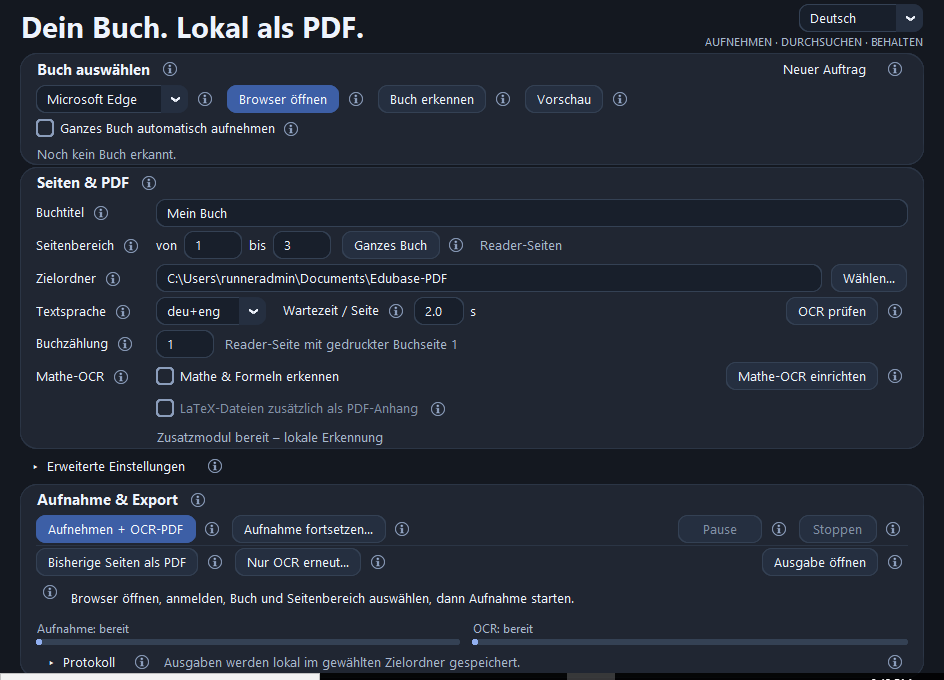
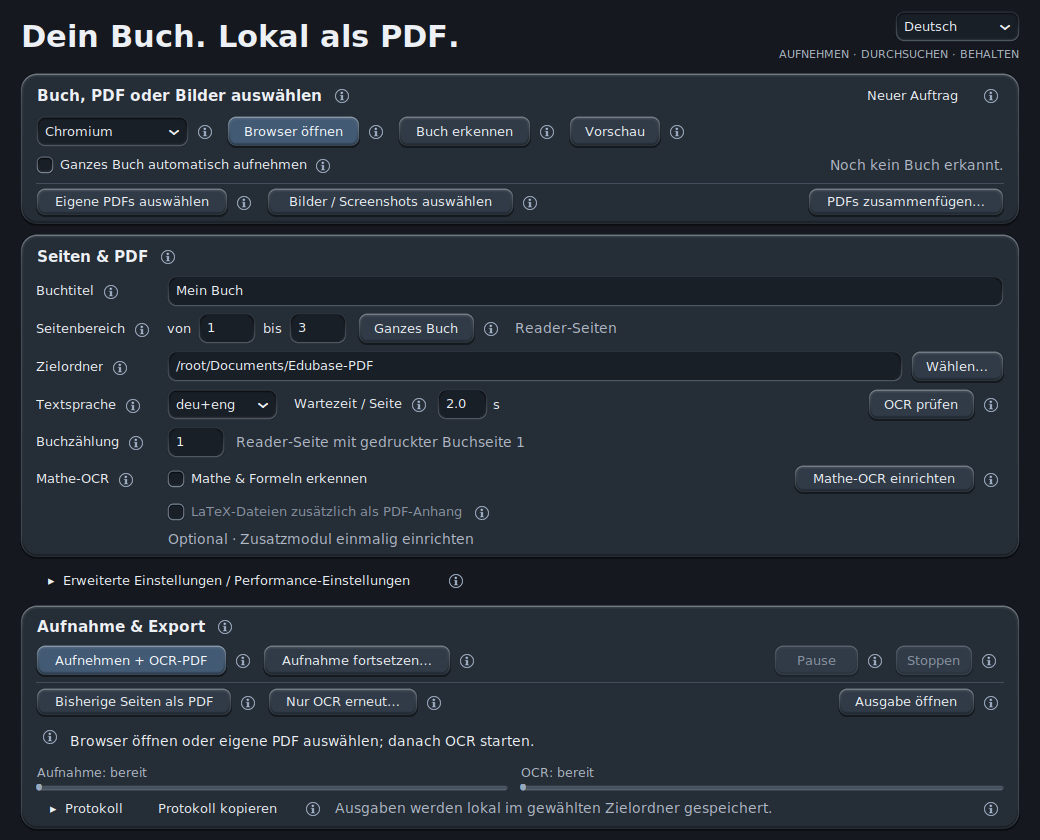
Document v1.8.0 graphite interface and refresh app previews

diff --git a/site/index.html b/site/index.html
@@ -17,7 +17,7 @@
   <meta property="og:url" content="https://sebii1998.github.io/edubase-to-pdf-ocr/">
   <meta property="og:locale" content="de_CH">
   <meta property="og:image" content="https://sebii1998.github.io/edubase-to-pdf-ocr/assets/app-de.png">
-  <meta property="og:image:alt" content="Deutsche Oberfläche von Edubase to PDF + OCR mit Buchauswahl, Seiteneinstellungen und PDF-Export">
+  <meta property="og:image:alt" content="Graphit-Oberfläche von Edubase to PDF + OCR – deutsche Beispielansicht">
   <meta name="twitter:card" content="summary_large_image">
   <link rel="icon" href="./assets/favicon.svg" type="image/svg+xml">
   <link rel="stylesheet" href="./assets/site.css">
@@ -42,14 +42,15 @@
         <h1 id="hero-title">Dein Buch.<br><span>Lokal als PDF.</span></h1>
         <p class="intro">Edubase-Buchseiten aufnehmen, mehrere eigene PDFs durchsuchbar machen oder Bilder und Screenshots in eine PDF verwandeln. Mit Text-OCR und optionaler Mathe-Erkennung – lokal auf deinem PC.</p>
         <div class="actions"><a class="button" href="https://github.com/Sebii1998/edubase-to-pdf-ocr/releases/download/v1.8.0/Edubase-PDF-Windows.zip"><svg width="19" height="19" viewBox="0 0 24 24" fill="none" stroke="currentColor" stroke-width="1.7" stroke-linecap="round" stroke-linejoin="round" aria-hidden="true"><path d="M12 3v12m-5-5 5 5 5-5M4 16v5h16v-5"/></svg>Für Windows herunterladen</a><a class="button secondary" href="#start">So geht’s</a></div>
-        <p class="download-note">Kostenlos · ZIP, ca. 241,7 MB · Windows 64 Bit (Intel/AMD)</p>
+        <p class="download-note">Kostenlos · ZIP, ca. 241,8 MB · Windows 64 Bit (Intel/AMD)</p>
       </div>
       <figure class="preview">
-        <div class="preview-window"><div class="window-bar" aria-hidden="true"><span></span><span></span><span></span><small>Edubase to PDF + OCR</small></div><a href="./assets/app-de.png" aria-label="Bild vergrössern"><img src="./assets/app-de.png" alt="Deutsche Oberfläche von Edubase to PDF + OCR mit Buchauswahl, Seiteneinstellungen und PDF-Export" width="944" height="680" fetchpriority="high" decoding="async"></a></div>
-        <figcaption><span>App-Oberfläche · Beispielansicht</span><a href="./assets/app-de.png">Bild vergrössern ↗</a></figcaption>
+        <div class="preview-window"><div class="window-bar" aria-hidden="true"><span></span><span></span><span></span><small>Edubase to PDF + OCR</small></div><a href="./assets/app-de.png" aria-label="Bild vergrössern"><img src="./assets/app-de.png" alt="Graphit-Oberfläche von Edubase to PDF + OCR – deutsche Beispielansicht" width="1040" height="840" fetchpriority="high" decoding="async"></a></div>
+        <figcaption><span>Graphit-Oberfläche · Beispielansicht</span><a href="./assets/app-de.png">Bild vergrössern ↗</a></figcaption>
       </figure>
     </section>
     <div class="compatibility"><span><svg width="16" height="16" viewBox="0 0 24 24" fill="none" stroke="currentColor" stroke-width="1.7" stroke-linecap="round" stroke-linejoin="round" aria-hidden="true"><path d="m5 12 4 4L19 6"/></svg>Python & OCR enthalten</span><span><svg width="16" height="16" viewBox="0 0 24 24" fill="none" stroke="currentColor" stroke-width="1.7" stroke-linecap="round" stroke-linejoin="round" aria-hidden="true"><path d="m5 12 4 4L19 6"/></svg>Edge, Chrome & Firefox</span><span><svg width="16" height="16" viewBox="0 0 24 24" fill="none" stroke="currentColor" stroke-width="1.7" stroke-linecap="round" stroke-linejoin="round" aria-hidden="true"><path d="m5 12 4 4L19 6"/></svg>Deutsch & English</span></div>
+    <div class="hint"><p><strong>Neu in 1.8.0: Graphit-Oberfläche.</strong> Dunkle Flächen, dezente Schatten und eine klar gegliederte Auswahl für Buch, PDFs und Bilder. Der neue Stil gilt auch für die erweiterten Einstellungen und die englische Ansicht.</p></div>
     <section class="section" aria-labelledby="features-title">
       <div class="section-heading"><p class="eyebrow">Für deinen Lernalltag</p><h2 id="features-title">Aufnehmen. Durchsuchen. Behalten.</h2><p>Buchseiten aufnehmen, PDFs und Bilder um Suchtext ergänzen und Unterlagen zusammenfügen. Die sichtbaren Seiten bleiben erhalten.</p></div>
       <div class="features"><article class="feature"><div class="icon"><svg width="23" height="23" viewBox="0 0 24 24" fill="none" stroke="currentColor" stroke-width="1.7" stroke-linecap="round" stroke-linejoin="round" aria-hidden="true"><circle cx="10.5" cy="10.5" r="6.5"/><path d="m16 16 5 5"/></svg></div><h3>Text schnell finden</h3><p>Suche in deinem PDF nach Begriffen und markiere erkannten Text. Ideal zum Nachschlagen und Lernen.</p></article><article class="feature"><div class="icon"><svg width="23" height="23" viewBox="0 0 24 24" fill="none" stroke="currentColor" stroke-width="1.7" stroke-linecap="round" stroke-linejoin="round" aria-hidden="true"><path d="M4 7h6m4 0h6M4 17h10m4 0h2M10 4v6m4 4v6"/></svg></div><h3>PDFs zusammenfügen</h3><p>Mehrere PDFs auswählen, die Reihenfolge festlegen und als neue Datei speichern. Vorhandener Suchtext bleibt erhalten. <a href="#merge-pdf">So funktioniert’s.</a></p></article><article class="feature"><div class="icon"><svg width="23" height="23" viewBox="0 0 24 24" fill="none" stroke="currentColor" stroke-width="1.7" stroke-linecap="round" stroke-linejoin="round" aria-hidden="true"><rect x="5" y="10" width="14" height="11" rx="2"/><path d="M8 10V7a4 4 0 0 1 8 0v3m-4 4v3"/></svg></div><h3>Verarbeitung auf deinem PC</h3><p>Aufnahme und Texterkennung laufen lokal. Für eigene PDFs und Bilder brauchst du keinen Browser und keine Edubase-Anmeldung. Deine Originaldateien bleiben unverändert.</p></article></div>

diff --git a/site/en/index.html b/site/en/index.html
@@ -17,7 +17,7 @@
   <meta property="og:url" content="https://sebii1998.github.io/edubase-to-pdf-ocr/en/">
   <meta property="og:locale" content="en_GB">
   <meta property="og:image" content="https://sebii1998.github.io/edubase-to-pdf-ocr/assets/app-en.png">
-  <meta property="og:image:alt" content="English interface of Edubase to PDF + OCR showing book selection, page settings and PDF export">
+  <meta property="og:image:alt" content="Graphite interface of Edubase to PDF + OCR – English example view">
   <meta name="twitter:card" content="summary_large_image">
   <link rel="icon" href="../assets/favicon.svg" type="image/svg+xml">
   <link rel="stylesheet" href="../assets/site.css">
@@ -42,14 +42,15 @@
         <h1 id="hero-title">Your book.<br><span>A local PDF.</span></h1>
         <p class="intro">Capture Edubase book pages, make several PDFs searchable or turn images and screenshots into a PDF. With text OCR and optional maths recognition – locally on your PC.</p>
         <div class="actions"><a class="button" href="https://github.com/Sebii1998/edubase-to-pdf-ocr/releases/download/v1.8.0/Edubase-PDF-Windows.zip"><svg width="19" height="19" viewBox="0 0 24 24" fill="none" stroke="currentColor" stroke-width="1.7" stroke-linecap="round" stroke-linejoin="round" aria-hidden="true"><path d="M12 3v12m-5-5 5 5 5-5M4 16v5h16v-5"/></svg>Download for Windows</a><a class="button secondary" href="#start">How it works</a></div>
-        <p class="download-note">Free · ZIP, approx. 241.7 MB · Windows 64-bit (Intel/AMD)</p>
+        <p class="download-note">Free · ZIP, approx. 241.8 MB · Windows 64-bit (Intel/AMD)</p>
       </div>
       <figure class="preview">
-        <div class="preview-window"><div class="window-bar" aria-hidden="true"><span></span><span></span><span></span><small>Edubase to PDF + OCR</small></div><a href="../assets/app-en.png" aria-label="View full image"><img src="../assets/app-en.png" alt="English interface of Edubase to PDF + OCR showing book selection, page settings and PDF export" width="944" height="680" fetchpriority="high" decoding="async"></a></div>
-        <figcaption><span>App interface · example view</span><a href="../assets/app-en.png">View full image ↗</a></figcaption>
+        <div class="preview-window"><div class="window-bar" aria-hidden="true"><span></span><span></span><span></span><small>Edubase to PDF + OCR</small></div><a href="../assets/app-en.png" aria-label="View full image"><img src="../assets/app-en.png" alt="Graphite interface of Edubase to PDF + OCR – English example view" width="1040" height="840" fetchpriority="high" decoding="async"></a></div>
+        <figcaption><span>Graphite interface · example view</span><a href="../assets/app-en.png">View full image ↗</a></figcaption>
       </figure>
     </section>
     <div class="compatibility"><span><svg width="16" height="16" viewBox="0 0 24 24" fill="none" stroke="currentColor" stroke-width="1.7" stroke-linecap="round" stroke-linejoin="round" aria-hidden="true"><path d="m5 12 4 4L19 6"/></svg>Python & OCR included</span><span><svg width="16" height="16" viewBox="0 0 24 24" fill="none" stroke="currentColor" stroke-width="1.7" stroke-linecap="round" stroke-linejoin="round" aria-hidden="true"><path d="m5 12 4 4L19 6"/></svg>Edge, Chrome & Firefox</span><span><svg width="16" height="16" viewBox="0 0 24 24" fill="none" stroke="currentColor" stroke-width="1.7" stroke-linecap="round" stroke-linejoin="round" aria-hidden="true"><path d="m5 12 4 4L19 6"/></svg>German & English</span></div>
+    <div class="hint"><p><strong>New in 1.8.0: Graphite interface.</strong> Dark surfaces, subtle shadows and a clearer layout for choosing a book, PDFs or images. The new style also covers advanced settings and the English view.</p></div>
     <section class="section" aria-labelledby="features-title">
       <div class="section-heading"><p class="eyebrow">Made for your study sessions</p><h2 id="features-title">Capture. Search. Keep.</h2><p>Capture book pages, add searchable text to PDFs and images and combine documents. The visible pages are preserved.</p></div>
       <div class="features"><article class="feature"><div class="icon"><svg width="23" height="23" viewBox="0 0 24 24" fill="none" stroke="currentColor" stroke-width="1.7" stroke-linecap="round" stroke-linejoin="round" aria-hidden="true"><circle cx="10.5" cy="10.5" r="6.5"/><path d="m16 16 5 5"/></svg></div><h3>Find the text you need</h3><p>Search your PDF for terms and select recognised text. Handy for looking things up and studying.</p></article><article class="feature"><div class="icon"><svg width="23" height="23" viewBox="0 0 24 24" fill="none" stroke="currentColor" stroke-width="1.7" stroke-linecap="round" stroke-linejoin="round" aria-hidden="true"><path d="M4 7h6m4 0h6M4 17h10m4 0h2M10 4v6m4 4v6"/></svg></div><h3>Merge PDFs</h3><p>Select several PDFs, set their order and save a new file. Existing searchable text is preserved. <a href="#merge-pdf">See how it works.</a></p></article><article class="feature"><div class="icon"><svg width="23" height="23" viewBox="0 0 24 24" fill="none" stroke="currentColor" stroke-width="1.7" stroke-linecap="round" stroke-linejoin="round" aria-hidden="true"><rect x="5" y="10" width="14" height="11" rx="2"/><path d="M8 10V7a4 4 0 0 1 8 0v3m-4 4v3"/></svg></div><h3>Processed on your PC</h3><p>Capture and text recognition run locally. Your own PDFs and images need no browser or Edubase sign-in. Your original files stay unchanged.</p></article></div>

diff --git a/README.md b/README.md
@@ -35,6 +35,7 @@ Automatische Titelerkennung, einstellbare Buchseitennummerierung und optionale M
 
 **Neu in 1.8.0 – Finale Version**
 
+- **Neue Graphit-Oberfläche:** Dunkle Flächen mit dezenten Schatten und klarer gegliederter Auswahl für Buch, PDFs und Bilder. Der Stil zieht sich durch die gesamte App – auch durch die erweiterten Einstellungen und die englische Ansicht.
 - **Mehrere eigene PDFs mit OCR verarbeiten:** Wähle eine oder mehrere PDFs, lege ihre Reihenfolge fest und erhalte eine gemeinsame durchsuchbare PDF.
 - **Bilder und Screenshots als PDF:** Wähle ein oder mehrere gespeicherte Bilder im Format PNG, JPEG, BMP, TIFF oder WebP. Sortiere deine Auswahl, ergänze weitere Bilder oder entferne Einträge und erstelle daraus eine durchsuchbare PDF.
 - **Text und Formeln erkennen:** Text-OCR ist bei beiden Eingaben dabei; Mathe-OCR schaltest du bei Bedarf zu. Die App wechselt automatisch in den lokalen PDF-Modus – ohne Browser, mit unveränderten Originaldateien.
@@ -49,7 +50,7 @@ Die bewährte Edubase-Aufnahme bleibt vollständig erhalten.
   <a href="https://github.com/Sebii1998/edubase-to-pdf-ocr/releases/download/v1.8.0/Edubase-PDF-Windows.zip"><img src="docs/images/download-de.svg" alt="Windows-App herunterladen" width="340"></a>
 </p>
 
-[ZIP · ca. 241,7 MB](https://github.com/Sebii1998/edubase-to-pdf-ocr/releases/download/v1.8.0/Edubase-PDF-Windows.zip) · [Alle Downloads](https://github.com/Sebii1998/edubase-to-pdf-ocr/releases/tag/v1.8.0)
+[ZIP · ca. 241,8 MB](https://github.com/Sebii1998/edubase-to-pdf-ocr/releases/download/v1.8.0/Edubase-PDF-Windows.zip) · [Alle Downloads](https://github.com/Sebii1998/edubase-to-pdf-ocr/releases/tag/v1.8.0)
 
 **Windows 64 Bit (Intel/AMD).** Python, Texterkennung und Firefox sind enthalten.
 Installiertes Edge oder Chrome werden ebenfalls unterstützt.
@@ -67,7 +68,7 @@ Installiertes Edge oder Chrome werden ebenfalls unterstützt.
 <summary><strong>App-Oberfläche ansehen</strong></summary>
 
 <p align="center">
-  <a href="site/assets/app-de.png"><img src="site/assets/app-de.png" alt="Edubase to PDF + OCR – deutsche Oberfläche mit Seitenauswahl und PDF-Export" width="820"></a>
+  <a href="site/assets/app-de.png"><img src="site/assets/app-de.png" alt="Edubase to PDF + OCR – Graphit-Oberfläche, deutsche Beispielansicht" width="820"></a>
 </p>
 
 </details>
@@ -200,6 +201,7 @@ Automatic title detection, configurable PDF page labels and optional maths recog
 
 **New in 1.8.0 – Final release**
 
+- **New graphite interface:** Dark surfaces with subtle shadows and a clearer layout for choosing a book, PDFs or images. The same style extends throughout the app, including advanced settings and the English view.
 - **Process several PDFs with OCR:** Select one or more PDFs, set their order and create one searchable PDF.
 - **Turn images and screenshots into a PDF:** Select one or more saved PNG, JPEG, BMP, TIFF or WebP images. Reorder your selection, add more images or remove entries, then create a searchable PDF.
 - **Recognise text and formulas:** Text OCR runs for both input types; add maths OCR when needed. The app switches to local PDF mode automatically – no browser required, with your originals unchanged.
@@ -214,7 +216,7 @@ Edubase capture remains fully available.
   <a href="https://github.com/Sebii1998/edubase-to-pdf-ocr/releases/download/v1.8.0/Edubase-PDF-Windows.zip"><img src="docs/images/download-en.svg" alt="Download the Windows app" width="340"></a>
 </p>
 
-[ZIP · about 241.7 MB](https://github.com/Sebii1998/edubase-to-pdf-ocr/releases/download/v1.8.0/Edubase-PDF-Windows.zip) · [All downloads](https://github.com/Sebii1998/edubase-to-pdf-ocr/releases/tag/v1.8.0)
+[ZIP · about 241.8 MB](https://github.com/Sebii1998/edubase-to-pdf-ocr/releases/download/v1.8.0/Edubase-PDF-Windows.zip) · [All downloads](https://github.com/Sebii1998/edubase-to-pdf-ocr/releases/tag/v1.8.0)
 
 **64-bit Windows (Intel/AMD).** Python, text recognition and Firefox are included.
 Installed Edge and Chrome are also supported.
@@ -232,7 +234,7 @@ Installed Edge and Chrome are also supported.
 <summary><strong>View the app interface</strong></summary>
 
 <p align="center">
-  <a href="site/assets/app-en.png"><img src="site/assets/app-en.png" alt="Edubase to PDF + OCR – English interface with page selection and PDF export" width="820"></a>
+  <a href="site/assets/app-en.png"><img src="site/assets/app-en.png" alt="Edubase to PDF + OCR – graphite interface, English example view" width="820"></a>
 </p>
 
 </details>

diff --git a/RELEASE_NOTES.md b/RELEASE_NOTES.md
@@ -25,7 +25,13 @@
   brauchen mehr Grafikspeicher; das Tempo hängt von deinem PC und den Formeln ab.
   Bildqualität und Erkennungsmodelle bleiben gleich.
 
-**Update vom 10. Oktober 2026: Mehrfachauswahl für PDFs und Bilder.**
+**Update vom 10. Oktober 2026: Neue Graphit-Oberfläche.**
+
+Dunkle Flächen, dezente Schatten und feine Konturen geben der App mehr Tiefe.
+Die Auswahl für Buch, PDFs und Bilder ist oben klarer gegliedert. Der gleiche
+Stil gilt auch für die erweiterten Einstellungen und die englische Ansicht.
+
+**Mehrere PDFs und Bilder verarbeiten:**
 
 Mit **Eigene PDFs auswählen** oder **Bilder / Screenshots auswählen** legst du
 los. Auswahl und Reihenfolge prüfen, bei Bedarf **Auswahl übernehmen** wählen
@@ -55,7 +61,7 @@ beim Kopieren oder Extrahieren doppelte Textstellen liefern. Prüfe OCR-Ergebnis
 
 **Loslegen:** [Windows-App herunterladen](https://github.com/Sebii1998/edubase-to-pdf-ocr/releases/download/v1.8.0/Edubase-PDF-Windows.zip)
 → ZIP vollständig entpacken → **Edubase-PDF.exe** öffnen.
-Der Download ist ca. **241,7 MB** gross. Python, Text-OCR mit Deutsch/Englisch,
+Der Download ist ca. **241,8 MB** gross. Python, Text-OCR mit Deutsch/Englisch,
 PDFium und Firefox sind enthalten. Installiertes Edge oder Chrome kannst du für
 Edubase ebenfalls verwenden.
 
@@ -85,7 +91,13 @@ Edubase ebenfalls verwenden.
   memory; speed depends on your PC and formulas. Image quality and recognition
   models stay the same.
 
-**Updated on 10 October 2026: Select multiple PDFs or images.**
+**Updated on 10 October 2026: New graphite interface.**
+
+Dark surfaces, subtle shadows and fine outlines add depth to the app.
+The top section makes choosing a book, PDFs or images clearer. The same
+style applies to advanced settings and the English view.
+
+**Process multiple PDFs or images:**
 
 Start with **Select your own PDFs** or **Select images / screenshots**. Check
 files and order, click **Use selection** when shown, then start
@@ -113,7 +125,7 @@ searchable PDF can produce duplicates. Please check OCR results.
 
 **Get started:** [Download the Windows app](https://github.com/Sebii1998/edubase-to-pdf-ocr/releases/download/v1.8.0/Edubase-PDF-Windows.zip)
 → extract the entire ZIP → open **Edubase-PDF.exe**.
-The download is about **241.7 MB**. Python, German/English text OCR, PDFium and
+The download is about **241.8 MB**. Python, German/English text OCR, PDFium and
 Firefox are included. You can also use installed Edge or Chrome for Edubase.
 
 [English website](https://sebii1998.github.io/edubase-to-pdf-ocr/en/)
@@ -141,10 +153,10 @@ Files labelled **Archiv** belong to earlier builds. For the current version, use
 
 ## SHA256
 
-`Edubase-PDF-Windows.zip` · 241745651 bytes
+`Edubase-PDF-Windows.zip` · 241757368 bytes
 
 ```text
[2 lines of base64/hex data omitted]
 ```
 
 `Edubase-CUDA-RTX50-Windows.zip` · 2006319505 bytes

diff --git a/docs/ANLEITUNG.md b/docs/ANLEITUNG.md
@@ -2,6 +2,11 @@
 
 [← Downloads und Schnellstart / English quick start](../README.md)
 
+Die App verwendet eine dunkle Graphit-Oberfläche mit dezenten Schatten – auch
+in den erweiterten Einstellungen und der englischen Ansicht. Oben findest du
+die Browser-Aktionen und darunter die Auswahl für eigene PDFs und Bilder sowie
+**PDFs zusammenfügen**. Seiten- und OCR-Einstellungen folgen im gewohnten Aufbau.
+
 ## PDFs zusammenfügen
 
 1. **PDFs zusammenfügen** anklicken und mindestens zwei PDFs vom PC auswählen.
